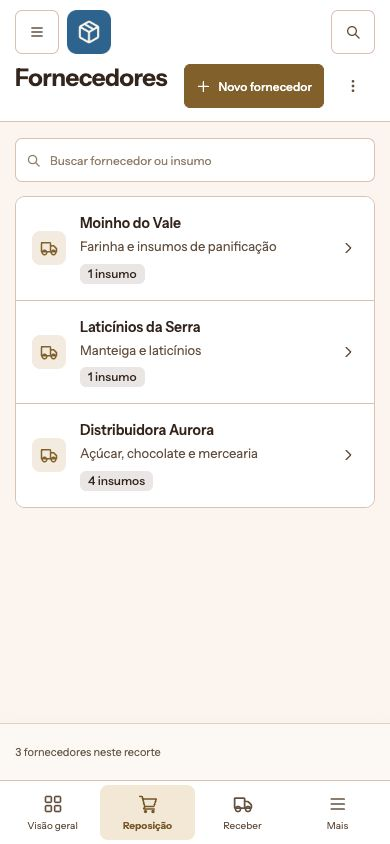
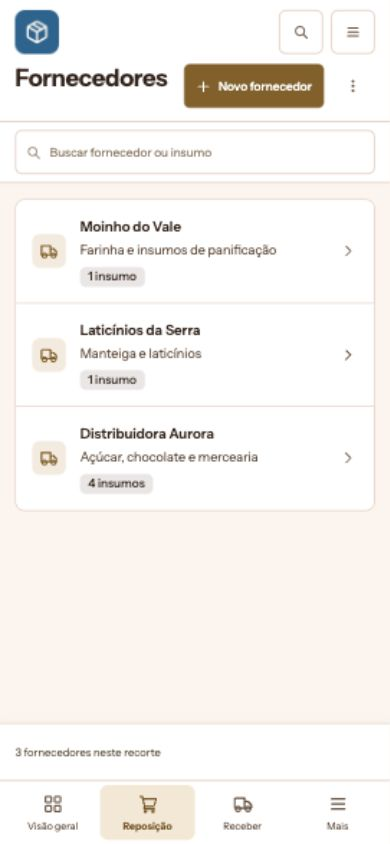
docs: refine app identity placement and toolbar surfaces in previews

diff --git a/docs/previews/navigation-2026-10-29/preview.js b/docs/previews/navigation-2026-10-29/preview.js
@@ -176,7 +176,7 @@ function renderNavigation(){
   }).join('');
   const primary=app.groups.map(g=>`<a class="navitem ${g.id===group.id?'active':''}" href="${href({view:g.children[0][0],compare:false})}" data-view="${g.children[0][0]}" ${g.id===group.id?'aria-current="true"':''}>${icon(g.symbol)}<span class="navlabel">${g.label}</span>${g.count?`<span class="navcount">${g.count}</span>`:''}</a>`).join('');
   const drawerContent=state.drawer&&state.variant==='double'?(state.drawerGroup?renderMobileGroup():`<div class="nav-caption">Escolha um assunto</div>${app.groups.map(g=>`<button class="mobile-subject" data-drawer-group="${g.id}">${icon(g.symbol)}<span><strong>${g.label}</strong><small>${g.description}</small></span>${icon('arrow')}</button>`).join('')}`):null;
-  $('#primary').innerHTML=`<div class="brand-row"><span class="app-logo">${appMark(state.app)}</span><div class="brand-copy"><strong>${app.label}</strong><small>Loja exemplo</small></div><button class="primary-toggle" data-action="compact" aria-label="${state.drawer?'Fechar navegação':'Compactar barra principal'}">${icon(state.drawer?'close':'panel')}</button></div><div class="nav-scroll"><div class="nav-caption">${isTree?'Assuntos e tarefas':'Assuntos'}</div>${drawerContent??(isTree?tree:primary)}</div><div class="nav-footer"><button class="utility" data-action="central">${icon('grid')}<span>Central de apps</span></button><button class="utility" data-action="alerts">${icon('bell')}<span>Avisos</span><span class="navcount">3</span></button><div class="profile"><span class="avatar">ML</span><div class="profile-text">Maria Lopes<small>Gestão da loja</small></div></div></div>`;
+  $('#primary').innerHTML=`<div class="brand-row"><button class="app-logo" data-action="central" aria-label="${app.label}: voltar à Central de apps" title="${app.label}: Central de apps">${appMark(state.app)}</button><div class="brand-copy"><strong>${app.label}</strong><small>Loja exemplo</small></div><button class="primary-toggle" data-action="compact" aria-label="${state.drawer?'Fechar navegação':'Compactar barra principal'}">${icon(state.drawer?'close':'panel')}</button></div><div class="nav-scroll"><div class="nav-caption">${isTree?'Assuntos e tarefas':'Assuntos'}</div>${drawerContent??(isTree?tree:primary)}</div><div class="nav-footer"><button class="utility" data-action="central">${icon('grid')}<span>Central de apps</span></button><button class="utility" data-action="alerts">${icon('bell')}<span>Avisos</span><span class="navcount">3</span></button><div class="profile"><span class="avatar">ML</span><div class="profile-text">Maria Lopes<small>Gestão da loja</small></div></div></div>`;
   const showSecondary=state.variant==='double'&&group.children.length>1&&state.secondary;
   $('#secondary').hidden=!showSecondary;
   $('#secondary').innerHTML=showSecondary?`<div class="secondary-top"><strong>${group.label}</strong><button data-action="secondary" aria-label="Recolher opções de ${group.label}">${icon('panel')}</button></div><nav class="nav-scroll" aria-label="Destinos de ${group.label}">${group.children.map(c=>navLink(c[1],c[0],c[2],c[3]||'')).join('')}</nav><div class="secondary-note">${icon(group.symbol)}${group.description}</div>`:'';
@@ -236,7 +236,7 @@ function renderHead(){
   const group=currentGroup(),app=applications[state.app],info=viewInfo[state.view];
   const secondaryControl=state.variant==='double'&&group.children.length>1?`<button class="pill-button desktop-control" data-action="secondary" aria-label="${state.secondary?'Recolher':'Mostrar'} opções de ${group.label}">${icon('panel')}${state.secondary?'Recolher opções':`Opções de ${group.label}`}</button>`:'';
   if(state.adaptive){
-    $('#pagehead').innerHTML=`<div class="head-top suite-header"><button class="icon-button mobile-menu" data-action="drawer" aria-label="Abrir navegação">${icon('menu')}</button><button class="icon-button desktop-control" data-action="compact" aria-label="${state.compact?'Expandir':'Compactar'} barra principal">${icon('panel')}</button><button class="icon-button current-app-home" data-action="central" aria-label="${app.label}: voltar à Central de apps" title="${app.label}: Central de apps">${appMark(state.app)}</button><div class="head-spacer"></div><button class="icon-button" data-action="search-suite" aria-label="Buscar destino na suíte">${icon('search')}</button></div><div class="heading-row"><div><h1>${info[0]}</h1></div><div class="page-actions">${pageActions()}${(pageActions()&&!pageActions().includes('gold'))||FLOW_CATALOG.some(f=>f.app===state.app&&f.view===state.view)?`<button class="icon-button mobile-page-options page-flow-options" data-action="page-options" aria-label="Mais opções da página" aria-haspopup="dialog">${icon('dots')}</button>`:''}${desktopTaskAction()}</div></div>${state.trail?`<div class="return-context"><button data-action="return-context">${icon('left')}Voltar a ${esc(state.trail.label)}</button></div>`:''}`;return;
+    $('#pagehead').innerHTML=`<div class="head-top suite-header"><button class="icon-button current-app-home" data-action="central" aria-label="${app.label}: voltar à Central de apps" title="${app.label}: Central de apps">${appMark(state.app)}</button><button class="icon-button desktop-control" data-action="compact" aria-label="${state.compact?'Expandir':'Compactar'} barra principal">${icon('panel')}</button><div class="head-spacer"></div><button class="icon-button" data-action="search-suite" aria-label="Buscar destino na suíte">${icon('search')}</button><button class="icon-button mobile-menu" data-action="drawer" aria-label="Abrir navegação">${icon('menu')}</button></div><div class="heading-row"><div><h1>${info[0]}</h1></div><div class="page-actions">${pageActions()}${(pageActions()&&!pageActions().includes('gold'))||FLOW_CATALOG.some(f=>f.app===state.app&&f.view===state.view)?`<button class="icon-button mobile-page-options page-flow-options" data-action="page-options" aria-label="Mais opções da página" aria-haspopup="dialog">${icon('dots')}</button>`:''}${desktopTaskAction()}</div></div>${state.trail?`<div class="return-context"><button data-action="return-context">${icon('left')}Voltar a ${esc(state.trail.label)}</button></div>`:''}`;return;
   }
   $('#pagehead').innerHTML=`<div class="head-top"><button class="icon-button mobile-menu" data-action="drawer" aria-label="Abrir navegação">${icon('menu')}</button><button class="icon-button desktop-control" data-action="compact" aria-label="${state.compact?'Expandir':'Compactar'} barra principal">${icon('panel')}</button><button class="app-switch" data-action="apps" aria-label="${app.label}: trocar app ou voltar à Central">${icon(app.symbol)}<span>${app.label}</span>${icon('down')}</button><div class="breadcrumb"><span class="desktop-breadcrumb">${app.label}</span>${icon('arrow')}<span>${group.label}</span>${group.children.length>1?icon('arrow')+`<span>${group.children.find(c=>c[0]===state.view)[1]}</span>`:''}</div>${group.children.length>1?`<div class="context-switch"><button class="button" data-action="context-mobile" aria-label="Opções de ${group.label}"><span>${group.label}</span>${icon('down')}</button></div>`:''}<div class="head-spacer"></div><div class="head-utility">${secondaryControl}<button class="icon-button desktop-control" data-action="hide" aria-label="${state.hidden?'Mostrar':'Ocultar'} barra principal">${icon('menu')}</button><button class="icon-button" data-action="search-suite" aria-label="Buscar na suíte">${icon('search')}</button></div></div><div class="heading-row"><div><h1>${info[0]}</h1><p>${info[1]}</p></div><div class="page-actions">${pageActions()}${desktopTaskAction()}</div></div>${state.trail?`<div class="return-context"><button data-action="return-context">${icon('left')}Voltar a ${esc(state.trail.label)}</button><span>Contexto de origem preservado</span></div>`:''}`;
 }
@@ -371,7 +371,7 @@ function act(action){
     case 'compare':state.compare=!state.compare;state.embedded=false;history.replaceState(null,'',href());render();break;
     case 'context-mobile':state.drawer=true;state.drawerGroup=currentGroup().id;renderNavigation();$('a,button',$('#primary'))?.focus();break;
     case 'drawer-back':state.drawerGroup=null;renderNavigation();break;
-    case 'central':if($('#detail').open)$('#detail').close();state.central=true;state.compare=false;history.pushState(null,'',href());render();break;
+    case 'central':if($('#detail').open)$('#detail').close();state.drawer=false;state.central=true;state.compare=false;history.pushState(null,'',href());render();break;
     case 'resume':state.central=false;history.pushState(null,'',href());render();break;
     case 'return-context':{const t=state.trail;state.trail=null;state.app=t.app;route(t.view);state.search=t.search;renderContent();if(t.dialog)act(t.dialog);break;}
     case 'cross-product':crossApp('compras','materials','GEL','Produtos · Geleia de frutas vermelhas','product:GEL');break;

diff --git a/docs/previews/navigation-2026-10-29/preview.css b/docs/previews/navigation-2026-10-29/preview.css
@@ -194,3 +194,10 @@ svg{stroke-width:2}.tag{border-radius:6px;line-height:16px}
 /* Botão do app: mesmo envelope dos demais controles do cabeçalho. */
 .suite-header{--header-control-size:32px}.suite-header>.icon-button{width:var(--header-control-size);height:var(--header-control-size);min-width:var(--header-control-size);min-height:var(--header-control-size);flex-shrink:0}.suite-header .current-app-home .app-mark{width:var(--header-control-size);height:var(--header-control-size)}
 @media(max-width:650px), (max-width:900px) and (orientation:portrait){.suite-header{--header-control-size:44px}}
+/* Identidade única e respiro entre regiões, também no desktop compacto. */
+.primary .app-logo{width:44px;height:44px;min-width:44px;padding:0;cursor:pointer}.primary .app-logo .app-mark{width:44px;height:44px}.application[data-view=overview] .content>.kpis{margin-top:24px}.content>.split{min-width:0}.content>.split>*{min-width:0}
+@media(min-width:901px), (min-width:651px) and (orientation:landscape){.application:not([data-hidden=true]) .suite-header .current-app-home{display:none}}
+/* Ferramentas pertencem a uma faixa de superfície, não a um card adicional. */
+.workspace{--workspace-bar-bg:var(--surface)}.content{--content-gutter:26px}.content:has(>.toolbar){padding-top:0}.content>.toolbar{width:calc(100% + 2 * var(--content-gutter));max-width:none;margin:0 calc(-1 * var(--content-gutter)) 16px;padding:8px var(--content-gutter);background:var(--workspace-bar-bg);border-bottom:1px solid var(--line);border-radius:0}.support-bottom{background:var(--workspace-bar-bg)}.content .split .toolbar{padding:8px 12px;background:var(--workspace-bar-bg);border-block:1px solid var(--line);border-radius:0}
+@media(max-width:1100px){.content{--content-gutter:20px}}
+@media(max-width:650px), (max-width:900px) and (orientation:portrait){.content{--content-gutter:15px}}

diff --git a/docs/previews/navigation-2026-10-29/verification.md b/docs/previews/navigation-2026-10-29/verification.md
@@ -263,3 +263,25 @@ complete-field-error-mobile.jpg e complete-confirmation-mobile.jpg. Galeria no r
 Integrações, permissões reais, servidor concorrente, validação fiscal, câmera, uploads,
 comunicação externa, estoque e pagamentos não foram executados. Nenhum fluxo está
 aprovado para substituição dos componentes maduros pelo esquema estático destes mocks.
+
+## Correção de duplicidade no desktop
+
+- Caso reproduzido em 870 × 548: apenas um ícone de app visível; conteúdo com padding
+  horizontal de 20 px e página sem transbordamento (largura 870). Ícone do rail abriu
+  Central e o retorno retomou Compras.
+- Desktop 1440 × 900: um ícone de app visível; padding 22px 26px 40px no conteúdo;
+  distância medida de 24 px entre o split de tarefas/atalhos e as métricas.
+- Mobile 390 × 844: rail fora da tela e ícone do cabeçalho presente. Abrir menu →
+  Central → Voltar a Compras retorna à página com gaveta fechada.
+- Captura desktop-identity-spacing.jpg. Correção somente na prévia.
+
+## Faixa de ferramentas e ancoragem mobile
+
+- 320 × 740: ícone do app em x=15, busca global em x=209 e menu em x=261; todos com
+  44 px. Ordem dos controles no DOM corresponde à visual.
+- Fundo computado da toolbar e do rodapé: rgb(255,255,255). Faixa de ferramentas com
+  61 px incluindo respiro e borda; antes ocupava o conteúdo com padding superior,
+  portanto não foi acrescentada uma segunda faixa fixa à área de trabalho.
+- As 20 telas foram revisitadas em 320 px: página e conteúdo sem overflow horizontal.
+- Abrir/fechar o menu continua operante após mudar seu posicionamento.
+- Galeria mobile atualizada para refletir o cabeçalho reposicionado e a nova faixa.

diff --git a/docs/previews/navigation-2026-10-29/README.md b/docs/previews/navigation-2026-10-29/README.md
@@ -477,3 +477,24 @@ As funções compartilhadas da suíte (sessão/trava, tema, confiança do dispos
 instalação, notificações, atalhos e capacidade/conexão) também são obrigações de
 preservação do kit. A prévia de composição não reproduz esses runtimes nem autoriza
 removê-los. Aparência estática e mensagens de estado não substituem seus contratos.
+
+### Identidade e respiro no desktop
+
+Correção do caso apontado pelo dono: quando o rail está visível, só ele mostra o ícone
+do app, agora também como acesso funcional à Central. O cabeçalho mantém esse ícone
+quando o rail não está na tela, como no mobile. O botão de compactar a lateral é uma
+função distinta e permanece. O Painel de Compras mantém 24 px entre o bloco de tarefas/
+atalhos e as métricas, além do padding externo; esses blocos não devem se encostar.
+
+### Composição das ferramentas e posição da identidade no mobile
+
+Experimentação solicitada: a identidade do app ancora o canto esquerdo; busca global
+e menu do app ficam agrupados à direita. São funções distintas, com a mesma caixa de
+toque e ordem DOM igual à visual. O ícone oficial e sua cor não foram redesenhados.
+
+Filtro, busca e opções passam a ocupar uma faixa branca contínua, da mesma família
+do rodapé fixo. A faixa acompanha a largura útil da área rolável, sem radius de card
+ou sombra adicional. Ela continua rolando com o conteúdo; o pedido de uma superfície
+coesa não vira automaticamente mais uma barra fixa no mobile. A ordem dos controles
+permanece filtro → busca → opções. A composição usa os gutters da página nos três
+perfis, sem encolher controles ou criar overflow.
